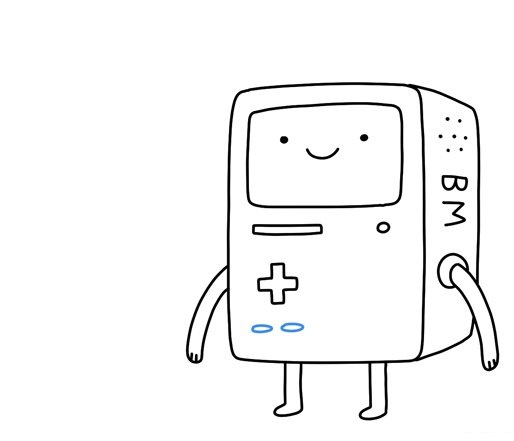
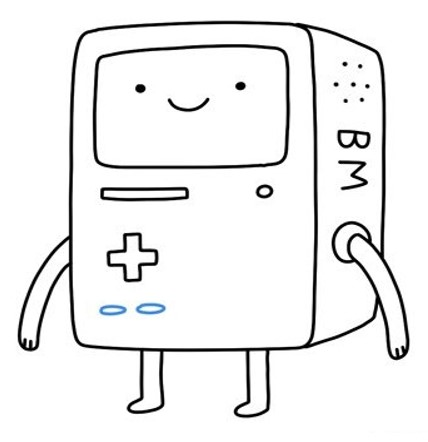
CSS: Navbar

diff --git a/style.css b/style.css
@@ -10,9 +10,14 @@
   --color-grey: #616161;
   --color-light-grey: #7c7979;
   --color-blue: #73aace;
-  --color-yellow: #fff7d1;
+  --color-yellow: #ffff00;
   --color-orange: #feb546;
   --color-black: #000000;
+  --color-text1: #0fe5b9;
+  --color-text2: #75b5d3;
+  --color-text3: #646d8a;
+  --color-back1: #10172a;
+  --color-back2: #234464;
 
   /* Font size */
   --font-large: 48px;
@@ -27,6 +32,7 @@
   --weight-regular: 400;
 
   /* Size */
+  --size-border-radius: 4px;
 }
 
 /* Universal tags */
@@ -34,18 +40,34 @@
   box-sizing: border-box;
 }
 
+body {
+  font-family: "Open Sans", sans-serif;
+  margin: 0;
+  cursor: default;
+}
+
+a {
+  text-decoration: none;
+  color: var(--color-white);
+}
+
+ul {
+  list-style: none;
+  padding-left: 0;
+}
+
 /* Typography */
 h1 {
   font-size: var(--font-large);
   font-weight: var(--weight-bold);
-  color: var(--color-black);
+  color: var(--color-text1);
   margin: 16px 0;
 }
 
 h2 {
   font-size: var(--font-regular);
   font-weight: var(--weight-semi-bold);
-  color: var(--color-black);
+  color: var(--color-text2);
   margin: 8px 0;
 }
 
@@ -61,4 +83,40 @@ p {
   font-weight: var(--weight-regular);
   color: var(--color-black);
   margin: 4px 0;
+}
+
+/* Navbar */
+#navbar {
+  display: flex;
+  justify-content: space-between;
+  background-color: var(--color-back1);
+  align-items: center;
+  color: var(--color-text1);
+  padding: 16px;
+  border: 5px solid var(--color-text2);
+}
+
+.navbar__menu {
+  display: flex;
+}
+
+.navbar__logo {
+  font-size: var(--font-medium);
+  font-weight: var(--weight-semi-bold);
+}
+
+.navbar__menu__item {
+  padding: 8px 12px;
+  margin: 0 4px;
+  cursor: pointer;
+}
+
+.navbar__menu__item.active {
+  border: 1px solid var(--color-text2);
+  border-radius: var(--size-border-radius);
+}
+
+.navbar__menu__item:hover {
+  background-color: var(--color-back2);
+  border-radius: 4px;
 }

diff --git a/index.html b/index.html
@@ -20,12 +20,12 @@
     <!-- Navbar -->
     <nav id="navbar">
         <div class="navbar__logo">
-            <i class="far fa-grin-alt"></i>
+            <i class="fas fa-battery-full"></i>
             <a href="#">Kwon</a>
         </div>
         <div class="navbar__menu">
             <ul class="navbar__menu">
-                <li class="navbar__menu__item">Home</li>
+                <li class="navbar__menu__item active">Home</li>
                 <li class="navbar__menu__item">About</li>
                 <li class="navbar__menu__item">Skills</li>
                 <li class="navbar__menu__item">My work</li>
@@ -38,14 +38,14 @@
     <!-- Home -->
     <section id="home">
         <img
-        src="imgs/BMO2.jpg"
+        src="imgs/BMO3.png"
         alt="Kwon's profile photo"
         class="home__avatar"
         />
-        <h1 class="home__title">Hello!<br/>I'm GameChanger</h1>
+        <h1 class="home__title">Hello!<br/>I'm GameChanger</h5>
         <h2 class="home__description">
             A Back-end Web Developer always thinking Creative, Effective, Solutions.
-            <h5>*GameChanger : 시장의 흐름을 바꾸거나 판도를 뒤집어 놓을 만한 창조적이고 혁신적인 생각을 가지기 위해 노력하는 사람  </h5>
+            <h5>*GameChanger : 시장의 흐름을 바꾸거나 판도를 뒤집어 놓을 만한 창조적이고 혁신적인 생각을 가지기 위해 노력하는 사람.</h3>
         </h2>
         <button id="home__contact">Contact Me</button>
     </section>
@@ -278,7 +278,7 @@
                 <i class="fab fa-raspberry-pi"></i></a>
         </div>
         <p class="contact__rights">
-            2021 GameChanger Kwon - All rights reserved
+            2021 GameChanger Kwon - All rights reserved and Designed by Kwon
         </p>
     </section>
 
